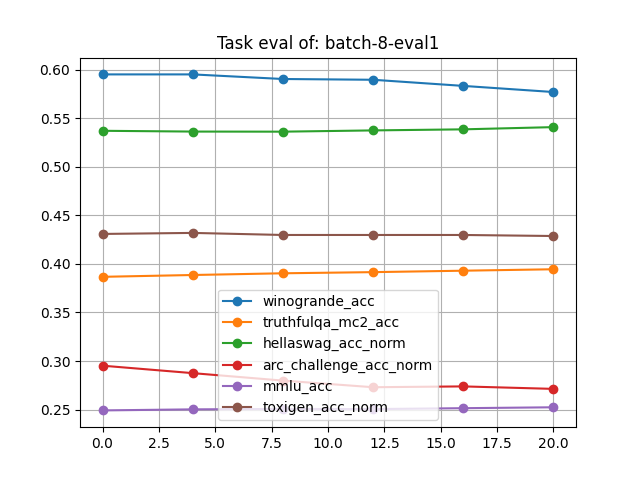
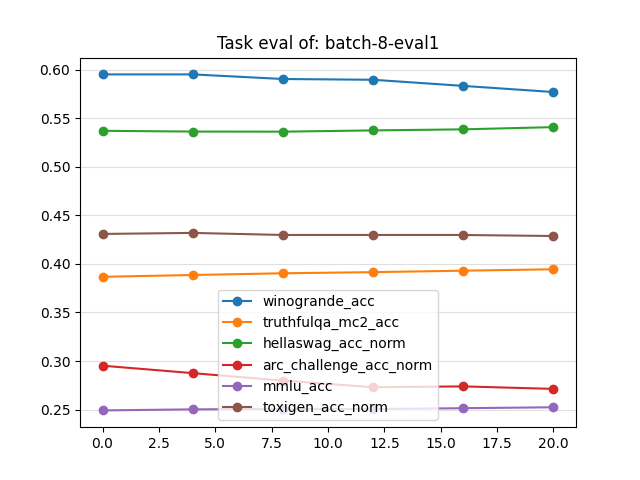
Updated plots and modified eval framework grid.

diff --git a/eval_framework.py b/eval_framework.py
@@ -65,9 +65,9 @@ def filter_json_logs(log_data: dict[int, dict]) -> dict[int, dict]:
             "winogrande_acc": log["results"]["winogrande"]["acc,none"],
             "truthfulqa_mc2_acc": log["results"]["truthfulqa_mc2"]["acc,none"],
             "hellaswag_acc_norm": log["results"]["hellaswag"]["acc_norm,none"],
-            #"gsm8k_exact_match_flexible": log["results"]["gsm8k"][
+            # "gsm8k_exact_match_flexible": log["results"]["gsm8k"][
             #    "exact_match,flexible-extract"
-            #],
+            # ],
             "arc_challenge_acc_norm": log["results"]["arc_challenge"]["acc_norm,none"],
             "mmlu_acc": log["results"]["mmlu"]["acc,none"],
             "toxigen_acc_norm": log["results"]["toxigen"]["acc_norm,none"],
@@ -77,10 +77,10 @@ def filter_json_logs(log_data: dict[int, dict]) -> dict[int, dict]:
 
 
 def create_plot(df: pd.DataFrame, log_dir: str, plot_title: str) -> None:
-    ax = df.plot(style=["o-"] * 7)
+    ax = df.plot(style=["o-"] * 7, zorder=2)
     fig = ax.get_figure()
     ax.set_title(f"Task eval of: {plot_title}")
-    ax.grid()
+    ax.grid(axis="y", zorder=1, alpha=0.4)
     fig.savefig(os.path.join(log_dir, "..", "figure.png"))
 
 
